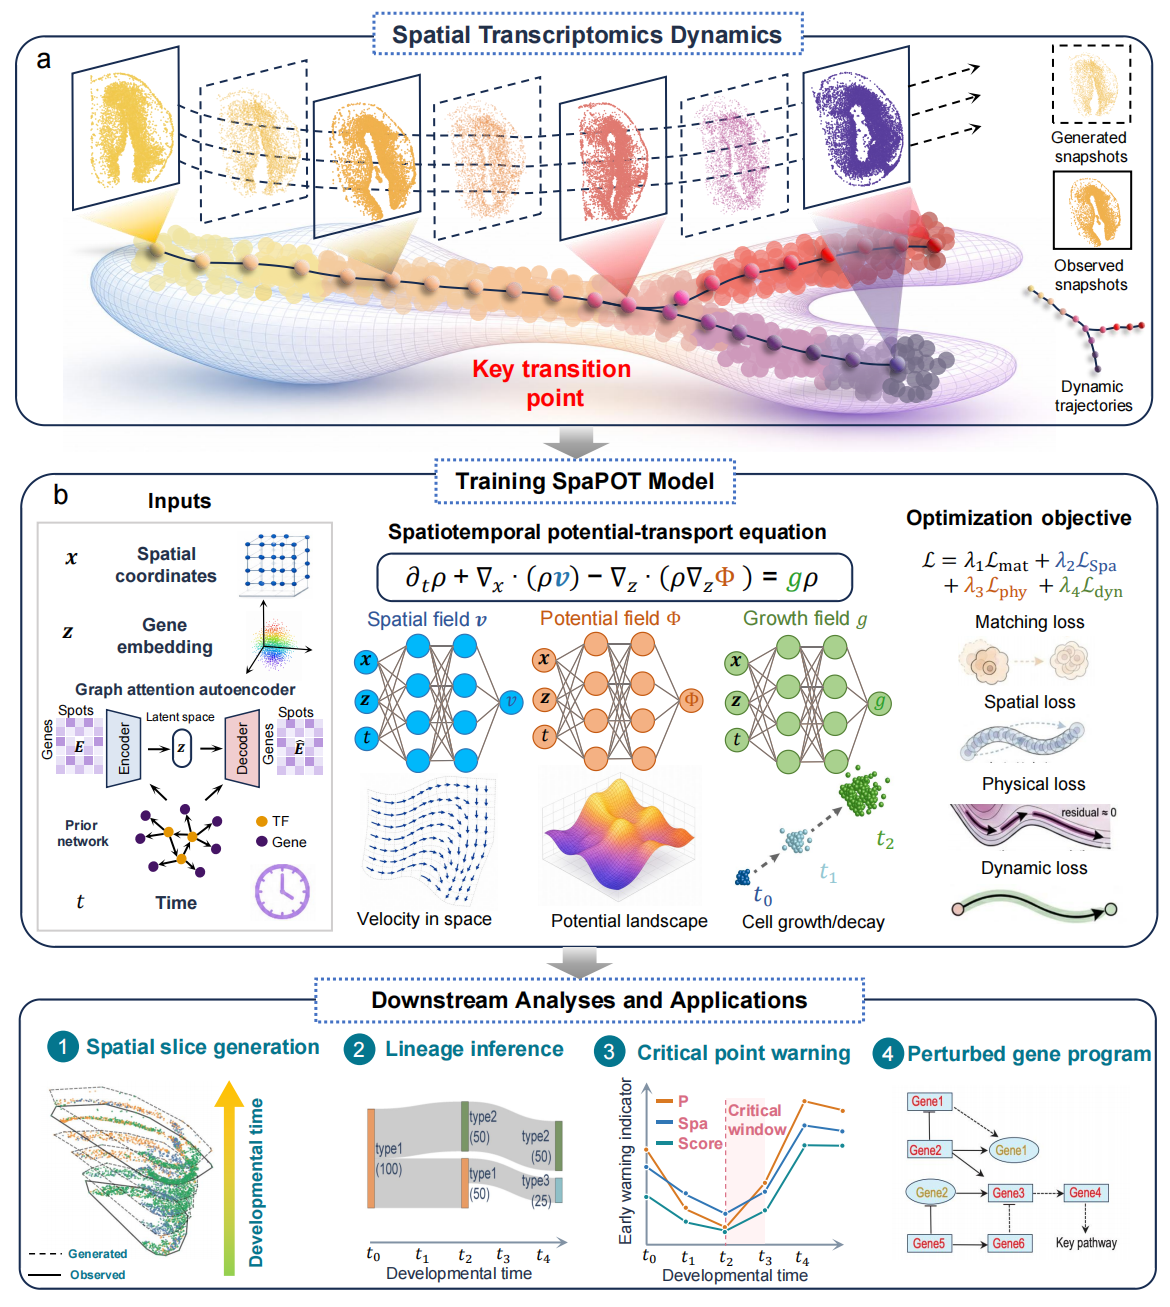
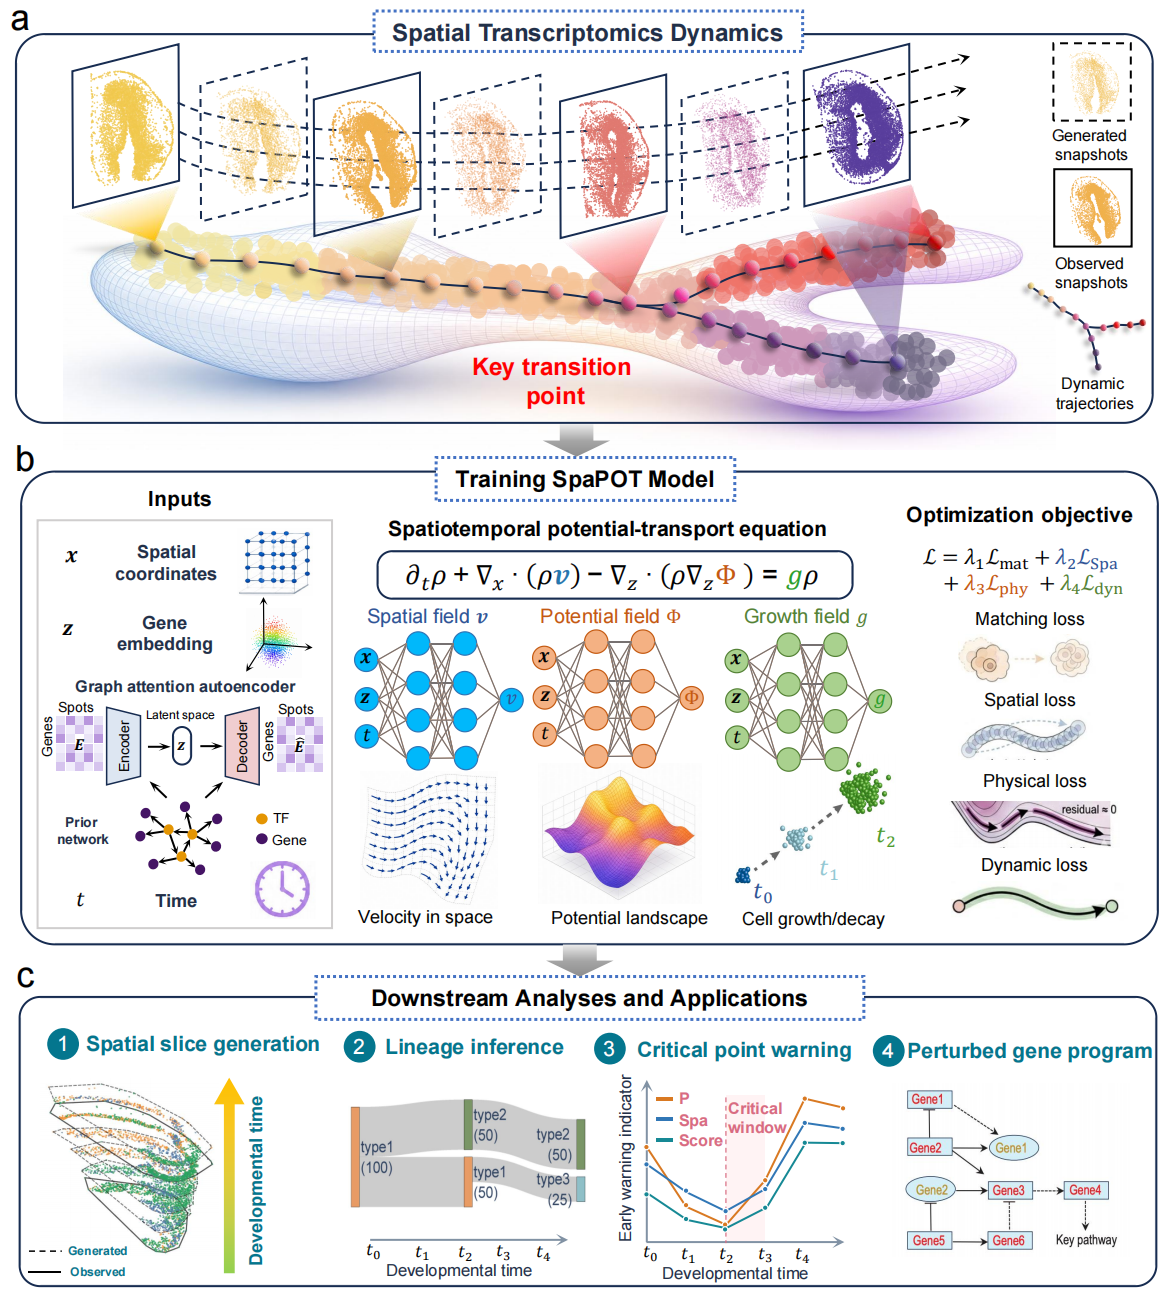
Widen figure layout and improve side notes

Changed region(s): [[0.0, 0.0, 1.0, 1.0], [0.1231, 0.2448, 0.1538, 0.2754]]

diff --git a/styles.css b/styles.css
@@ -19,7 +19,7 @@
   --shadow-soft: 0 18px 55px rgba(28, 55, 84, 0.1);
   --shadow-card: 0 16px 42px rgba(28, 55, 84, 0.12);
   --radius: 8px;
-  --max-width: 1180px;
+  --max-width: 1320px;
 }
 
 * {
@@ -246,7 +246,7 @@ img {
 }
 
 .section-band {
-  padding: 64px 28px;
+  padding: 68px 32px;
 }
 
 section[id] {
@@ -775,8 +775,8 @@ p {
 
 .model-grid {
   display: grid;
-  grid-template-columns: minmax(0, 0.98fr) minmax(300px, 0.56fr);
-  gap: 24px;
+  grid-template-columns: minmax(0, 1.12fr) minmax(280px, 0.44fr);
+  gap: 28px;
   align-items: start;
 }
 
@@ -1147,23 +1147,23 @@ p {
 }
 
 .model-notes article {
-  padding: 16px 18px;
+  padding: 14px 15px;
   border-left: 3px solid var(--bio);
 }
 
 .note-index {
   display: inline-flex;
-  margin-bottom: 10px;
+  margin-bottom: 8px;
   color: var(--accent);
-  font-size: 0.84rem;
+  font-size: 0.78rem;
   font-weight: 820;
 }
 
 .model-notes p,
 .innovation-card p {
   margin-bottom: 0;
-  font-size: 0.94rem;
-  line-height: 1.64;
+  font-size: 0.88rem;
+  line-height: 1.52;
 }
 
 .route-band {
@@ -1887,9 +1887,10 @@ p {
 
 .result-panel {
   display: grid;
-  grid-template-columns: minmax(128px, 0.13fr) minmax(0, 1.87fr);
-  gap: 10px;
-  padding: 14px;
+  grid-template-columns: minmax(190px, 0.18fr) minmax(0, 1.82fr);
+  gap: 16px;
+  padding: 18px;
+  align-items: start;
   border: 1px solid var(--line);
   border-radius: var(--radius);
   background: rgba(255, 255, 255, 0.8);
@@ -1906,20 +1907,25 @@ p {
 
 .result-copy {
   display: grid;
-  gap: 9px;
+  gap: 10px;
   align-self: start;
+  padding: 12px;
+  border: 1px solid rgba(63, 111, 216, 0.1);
+  border-radius: var(--radius);
+  background: rgba(248, 251, 250, 0.76);
 }
 
 .result-copy .result-kicker {
   margin-bottom: 0;
-  padding: 5px 8px;
-  font-size: 0.66rem;
+  padding: 5px 10px;
+  font-size: 0.68rem;
 }
 
 .result-copy h3 {
   margin-bottom: 2px;
-  font-size: 0.9rem;
-  line-height: 1.2;
+  color: var(--ink);
+  font-size: 1.02rem;
+  line-height: 1.18;
 }
 
 .result-legend,
@@ -1941,7 +1947,7 @@ p {
   min-height: 36px;
   gap: 6px;
   padding: 7px 8px;
-  font-size: 0.76rem;
+  font-size: 0.78rem;
 }
 
 .result-details summary::after {
@@ -1957,8 +1963,8 @@ p {
 
 .result-detail-body > p {
   margin-bottom: 0;
-  font-size: 0.74rem;
-  line-height: 1.45;
+  font-size: 0.78rem;
+  line-height: 1.48;
 }
 
 .result-legend {
@@ -1975,7 +1981,7 @@ p {
 .result-legend p:last-child {
   margin: 0;
   color: #4f5f73;
-  font-size: 0.72rem;
+  font-size: 0.74rem;
   line-height: 1.48;
 }
 
@@ -2090,7 +2096,8 @@ p {
 
 .result-preview img {
   width: 100%;
-  max-height: 920px;
+  max-height: none;
+  height: auto;
   object-fit: contain;
   object-position: top center;
   background: var(--paper-solid);

diff --git a/index.html b/index.html
@@ -5,7 +5,7 @@
     <meta name="viewport" content="width=device-width, initial-scale=1" />
     <title>SpaPOT Interactive Explainer</title>
     <link rel="icon" type="image/png" href="assets/spapot_logo_mark.png" />
-    <link rel="stylesheet" href="styles.css?v=20260623b" />
+    <link rel="stylesheet" href="styles.css?v=20260624a" />
   </head>
   <body>
     <header class="site-header">